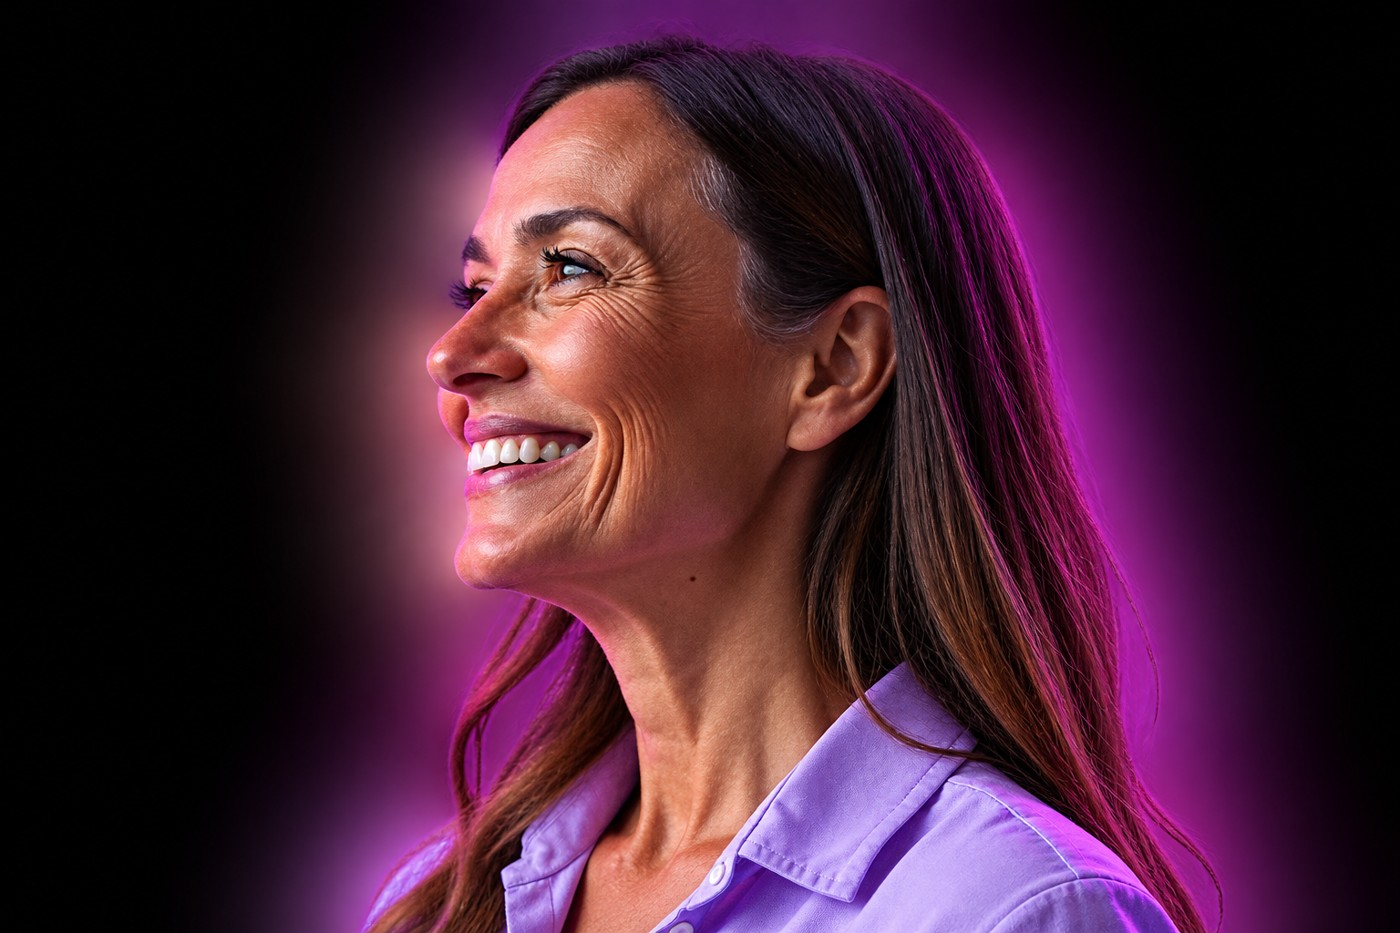
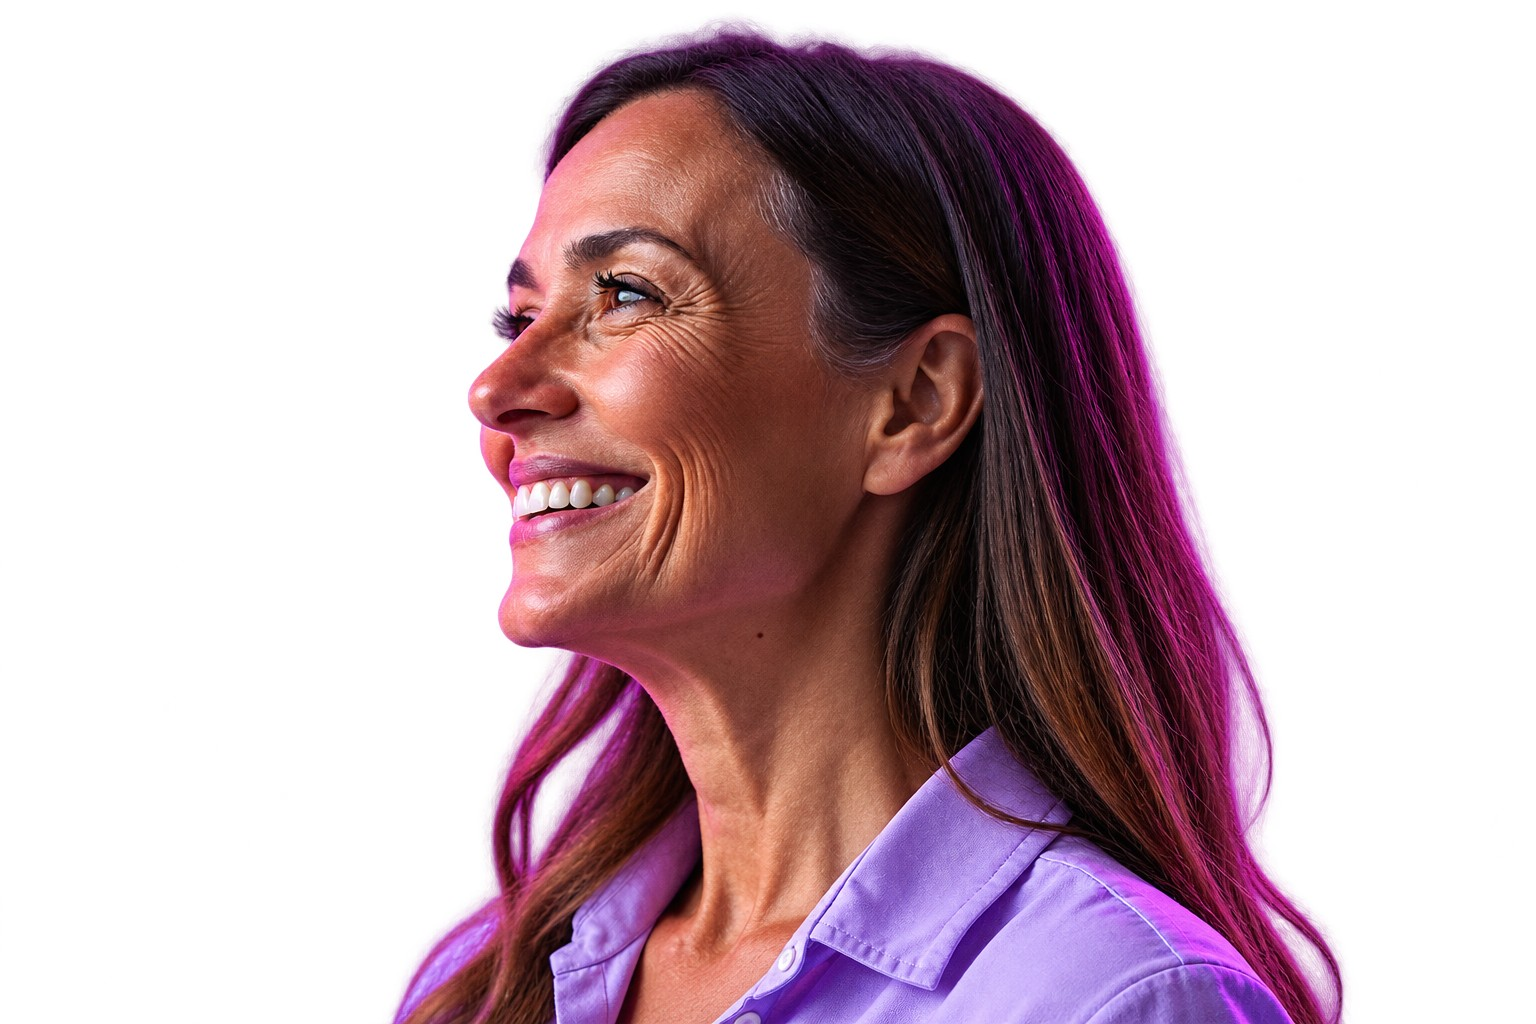
Transforma: nova capa inicial e final em camadas, com o personagem entre Trans e Forma

diff --git a/Transforma Educacao PB 2026.dc.html b/Transforma Educacao PB 2026.dc.html
@@ -15,9 +15,12 @@
 </helmet>
 <x-import component-from-global-scope="deck-stage" from="./deck-stage.js" width="1920" height="1080" hint-size="100%,100%">
 
-<section data-label="Capa" data-screen-label="01 Capa" data-duration="9000" style="background:#6809C6;overflow:hidden;font-family:'Archivo',sans-serif">
-  <img data-anim="zoom" src="assets/capa-3200.png" alt="Transforma Educação PB 2026" style="position:absolute;inset:0;width:100%;height:100%;object-fit:cover"></img>
-  <img data-anim="up" data-delay="900" src="assets/logos-branco-crop.png" alt="GEFDP · Secretaria de Estado da Educação · Governo da Paraíba" style="position:absolute;left:50%;top:712px;width:860px;margin-left:-430px"></img>
+<section data-label="Capa" data-screen-label="01 Capa" data-duration="9000" style="background:#ffffff;overflow:hidden;font-family:'Archivo',sans-serif;color:#2E0950">
+  <div data-anim="fade" data-delay="0" style="position:absolute;left:760px;top:-40px;width:1160px;height:1160px;border-radius:50%;background:radial-gradient(circle,#E9CFFF 0%,#F6ECFF 42%,rgba(255,255,255,0) 70%)"></div>
+  <img data-anim="up" data-delay="150" src="assets/capa-final/trans.png" alt="Trans" style="position:absolute;left:96px;top:440px;width:1060px;z-index:1"></img>
+  <img data-anim="zoom" data-delay="0" src="assets/capa-final/personagem.png" alt="Professor sorrindo" style="position:absolute;left:680px;top:110px;width:1410px;z-index:2;transform-origin:50% 100%"></img>
+  <img data-anim="up" data-delay="500" src="assets/capa-final/forma.png" alt="Forma" style="position:absolute;left:96px;top:768px;width:1280px;z-index:3;filter:drop-shadow(0 0 2px #fff) drop-shadow(0 10px 22px rgba(46,9,80,.28))"></img>
+  <div data-anim="fade" data-delay="800" style="position:absolute;left:0;right:0;bottom:0;height:120px;background:#fff;z-index:4;display:flex;align-items:center;justify-content:space-between;padding:0 190px 0 96px;box-sizing:border-box"><div><div style="display:flex;align-items:center;gap:9px"><span style="width:34px;height:34px;border:2px solid #6809C6;border-radius:999px;box-sizing:border-box"></span><span style="width:44px;height:34px;border:2px solid #6809C6;border-radius:999px;box-sizing:border-box"></span><span style="width:92px;height:34px;border:2px solid #6809C6;border-radius:999px;box-sizing:border-box"></span><span style="width:172px;height:34px;border:2px solid #6809C6;border-radius:999px;box-sizing:border-box"></span><span style="height:34px;padding:0 26px;border:2px solid #6809C6;border-radius:999px;box-sizing:border-box;display:flex;align-items:center;font-size:18px;letter-spacing:.34em;white-space:nowrap;color:#6809C6">EDUCAÇÃO PB</span></div><div style="margin-top:10px;display:flex;align-items:baseline;gap:18px;color:#6809C6;white-space:nowrap"><span style="font-size:21px;letter-spacing:.34em">FORMAÇÃO CONTINUADA BNCC</span><b style="font-size:29px;font-weight:900;font-stretch:125%;letter-spacing:.08em">2026</b></div></div><img src="assets/logos-cor-crop.png" alt="GEFDP · Secretaria de Estado da Educação · Governo da Paraíba" style="width:640px"></img></div>
 </section>
 
 <section data-label="O Programa" data-screen-label="02 O Programa" data-duration="13000" style="background:#ffffff;overflow:hidden;font-family:'Archivo',sans-serif;color:#2E0950">
@@ -106,6 +109,16 @@
   <div data-stage="6" data-dark="0" data-tr="desliza" style="position:absolute;inset:0;overflow:hidden;background:#fff;color:#2E0950;opacity:0"><div style="position:absolute;left:100px;right:100px;top:104px;display:flex;align-items:center;justify-content:space-between;gap:40px;z-index:3"><h1 data-sa="100" style="margin:0;font-size:68px;line-height:1;font-weight:800;font-stretch:118%;letter-spacing:-.025em;white-space:nowrap">Painel de <span style="color:#6809C6">indicadores</span></h1><div data-sa="0" style="align-self:flex-start;border:2px solid #6809C6;border-radius:999px;padding:12px 30px;font-size:24px;letter-spacing:.32em;text-transform:uppercase;white-space:nowrap;color:#6809C6">Avaliação</div></div>
 <div style="position:absolute;left:100px;right:100px;top:210px;bottom:74px;display:flex;gap:28px;z-index:2"><div data-ipanel="1" data-sa="200" style="flex:1;min-width:0;border-radius:36px;background:#6809C6;color:#fff;padding:44px 46px 30px;display:flex;flex-direction:column;box-shadow:0 30px 70px rgba(46,9,80,.28)"><div style="flex:1;min-height:0;display:flex;flex-direction:column;align-items:center;justify-content:center;text-align:center"><span style="width:190px;height:190px;border-radius:50%;background:#fff;display:flex;align-items:center;justify-content:center"><svg width="118" height="118" viewBox="0 0 24 24" fill="none" stroke="#6809C6" stroke-width="1.8" stroke-linecap="round" stroke-linejoin="round"><path d="M22 10L12 5 2 10l10 5 10-5z"></path><path d="M6 12v5c3 2 9 2 12 0v-5"></path></svg></span><div style="margin-top:28px;font-size:170px;line-height:.9;font-weight:900;font-stretch:86%;letter-spacing:-.03em;white-space:nowrap">91,8<span style="color:#E9A6FF">%</span></div><div style="margin-top:22px;font-size:42px;line-height:1.08;font-weight:800;font-stretch:108%">Indicadores pedagógicos</div><div style="margin-top:8px;font-size:24px;color:#E9D7FF">Conteúdo e prática docente</div></div><div data-iticker="1" style="flex:none;height:64px;margin-top:22px;padding:0 24px;border-radius:18px;background:rgba(255,255,255,.1);display:flex;align-items:center;gap:14px;font-size:25px;overflow:hidden"></div><div style="display:none"><span data-iitem="Relevância para a prática" data-v="99,1"><svg width="30" height="30" viewBox="0 0 24 24" fill="none" stroke="#E9D7FF" stroke-width="2" stroke-linecap="round" stroke-linejoin="round"><circle cx="12" cy="12" r="9"></circle><circle cx="12" cy="12" r="5"></circle><circle cx="12" cy="12" r="1"></circle></svg></span><span data-iitem="Clareza dos temas" data-v="89,9"><svg width="30" height="30" viewBox="0 0 24 24" fill="none" stroke="#E9D7FF" stroke-width="2" stroke-linecap="round" stroke-linejoin="round"><path d="M14 3H7a2 2 0 0 0-2 2v14a2 2 0 0 0 2 2h10a2 2 0 0 0 2-2V8z"></path><path d="M14 3v5h5M9 13h6M9 17h6"></path></svg></span><span data-iitem="Ampliou conhecimento" data-v="93,4"><svg width="30" height="30" viewBox="0 0 24 24" fill="none" stroke="#E9D7FF" stroke-width="2" stroke-linecap="round" stroke-linejoin="round"><path d="M22 10L12 5 2 10l10 5 10-5z"></path><path d="M6 12v5c3 2 9 2 12 0v-5"></path></svg></span><span data-iitem="Alinhado à sala de aula" data-v="83,7"><svg width="30" height="30" viewBox="0 0 24 24" fill="none" stroke="#E9D7FF" stroke-width="2" stroke-linecap="round" stroke-linejoin="round"><circle cx="12" cy="12" r="9"></circle><path d="M15.5 8.5l-2 5-5 2 2-5z"></path></svg></span><span data-iitem="Aprendizagem ativa" data-v="92,9"><svg width="30" height="30" viewBox="0 0 24 24" fill="none" stroke="#E9D7FF" stroke-width="2" stroke-linecap="round" stroke-linejoin="round"><path d="M13 2L4 14h7l-1 8 9-12h-7z"></path></svg></span></div></div><div data-ipanel="1" data-sa="350" style="flex:1;min-width:0;border-radius:36px;background:#2E0950;color:#fff;padding:44px 46px 30px;display:flex;flex-direction:column;box-shadow:0 30px 70px rgba(46,9,80,.28)"><div style="flex:1;min-height:0;display:flex;flex-direction:column;align-items:center;justify-content:center;text-align:center"><span style="width:190px;height:190px;border-radius:50%;background:#fff;display:flex;align-items:center;justify-content:center"><svg width="118" height="118" viewBox="0 0 24 24" fill="none" stroke="#6809C6" stroke-width="1.8" stroke-linecap="round" stroke-linejoin="round"><path d="M12 7c-2-2-5-2.5-9-2.5v14c4 0 7 .5 9 2.5 2-2 5-2.5 9-2.5v-14c-4 0-7 .5-9 2.5z"></path><path d="M12 7v14"></path></svg></span><div style="margin-top:28px;font-size:170px;line-height:.9;font-weight:900;font-stretch:86%;letter-spacing:-.03em;white-space:nowrap">93,8<span style="color:#E9A6FF">%</span></div><div style="margin-top:22px;font-size:42px;line-height:1.08;font-weight:800;font-stretch:108%">Recursos e metodologia</div><div style="margin-top:8px;font-size:24px;color:#E9D7FF">Materiais, atividades e orientações</div></div><div data-iticker="1" style="flex:none;height:64px;margin-top:22px;padding:0 24px;border-radius:18px;background:rgba(255,255,255,.1);display:flex;align-items:center;gap:14px;font-size:25px;overflow:hidden"></div><div style="display:none"><span data-iitem="Videoaulas" data-v="92,8"><svg width="30" height="30" viewBox="0 0 24 24" fill="none" stroke="#E9D7FF" stroke-width="2" stroke-linecap="round" stroke-linejoin="round"><circle cx="12" cy="12" r="9"></circle><path d="M10 8.5l5.5 3.5-5.5 3.5z"></path></svg></span><span data-iitem="Materiais escritos" data-v="94,4"><svg width="30" height="30" viewBox="0 0 24 24" fill="none" stroke="#E9D7FF" stroke-width="2" stroke-linecap="round" stroke-linejoin="round"><path d="M12 7c-2-2-5-2.5-9-2.5v14c4 0 7 .5 9 2.5 2-2 5-2.5 9-2.5v-14c-4 0-7 .5-9 2.5z"></path><path d="M12 7v14"></path></svg></span><span data-iitem="Recursos interativos" data-v="91,5"><svg width="30" height="30" viewBox="0 0 24 24" fill="none" stroke="#E9D7FF" stroke-width="2" stroke-linecap="round" stroke-linejoin="round"><circle cx="18" cy="5" r="3"></circle><circle cx="6" cy="12" r="3"></circle><circle cx="18" cy="19" r="3"></circle><path d="M8.6 10.5l6.8-4M8.6 13.5l6.8 4"></path></svg></span><span data-iitem="Atividades propostas" data-v="95,2"><svg width="30" height="30" viewBox="0 0 24 24" fill="none" stroke="#E9D7FF" stroke-width="2" stroke-linecap="round" stroke-linejoin="round"><rect x="5" y="4" width="14" height="17" rx="2"></rect><path d="M9 2.5h6V6H9zM9 13l2 2 4-4"></path></svg></span><span data-iitem="Clareza das orientações" data-v="95,0"><svg width="30" height="30" viewBox="0 0 24 24" fill="none" stroke="#E9D7FF" stroke-width="2" stroke-linecap="round" stroke-linejoin="round"><path d="M12 3v18M12 5h6l3 3-3 3h-6M12 11H6l-3 3 3 3h6"></path></svg></span></div></div></div></div>
   <div style="position:absolute;left:140px;right:140px;top:34px;display:flex;gap:28px;z-index:6;color:#fff"><div data-sgrupo="0-2" style="flex:3;display:flex;flex-direction:column;gap:10px;transition:opacity .4s,color .5s"><span style="font-size:19px;font-weight:700;letter-spacing:.24em;text-transform:uppercase">Alcance</span><div style="display:flex;gap:8px"><div style="flex:1;height:6px;border-radius:6px;overflow:hidden;transition:background .5s;background:rgba(255,255,255,.25)"><div data-sbar="0" style="height:100%;width:100%;background:#fff;transform-origin:0 50%;transform:scaleX(1);transition:transform .45s cubic-bezier(.22,1,.36,1),background .5s"></div></div><div style="flex:1;height:6px;border-radius:6px;overflow:hidden;transition:background .5s;background:rgba(255,255,255,.25)"><div data-sbar="1" style="height:100%;width:100%;background:#fff;transform-origin:0 50%;transform:scaleX(0);transition:transform .45s cubic-bezier(.22,1,.36,1),background .5s"></div></div><div style="flex:1;height:6px;border-radius:6px;overflow:hidden;transition:background .5s;background:rgba(255,255,255,.25)"><div data-sbar="2" style="height:100%;width:100%;background:#fff;transform-origin:0 50%;transform:scaleX(0);transition:transform .45s cubic-bezier(.22,1,.36,1),background .5s"></div></div></div></div><div data-sgrupo="3-4" style="flex:2;display:flex;flex-direction:column;gap:10px;transition:opacity .4s,color .5s"><span style="font-size:19px;font-weight:700;letter-spacing:.24em;text-transform:uppercase">Progresso</span><div style="display:flex;gap:8px"><div style="flex:1;height:6px;border-radius:6px;overflow:hidden;transition:background .5s;background:rgba(255,255,255,.25)"><div data-sbar="3" style="height:100%;width:100%;background:#fff;transform-origin:0 50%;transform:scaleX(0);transition:transform .45s cubic-bezier(.22,1,.36,1),background .5s"></div></div><div style="flex:1;height:6px;border-radius:6px;overflow:hidden;transition:background .5s;background:rgba(255,255,255,.25)"><div data-sbar="4" style="height:100%;width:100%;background:#fff;transform-origin:0 50%;transform:scaleX(0);transition:transform .45s cubic-bezier(.22,1,.36,1),background .5s"></div></div></div></div><div data-sgrupo="5-6" style="flex:2;display:flex;flex-direction:column;gap:10px;transition:opacity .4s,color .5s"><span style="font-size:19px;font-weight:700;letter-spacing:.24em;text-transform:uppercase">Avaliação</span><div style="display:flex;gap:8px"><div style="flex:1;height:6px;border-radius:6px;overflow:hidden;transition:background .5s;background:rgba(255,255,255,.25)"><div data-sbar="5" style="height:100%;width:100%;background:#fff;transform-origin:0 50%;transform:scaleX(0);transition:transform .45s cubic-bezier(.22,1,.36,1),background .5s"></div></div><div style="flex:1;height:6px;border-radius:6px;overflow:hidden;transition:background .5s;background:rgba(255,255,255,.25)"><div data-sbar="6" style="height:100%;width:100%;background:#fff;transform-origin:0 50%;transform:scaleX(0);transition:transform .45s cubic-bezier(.22,1,.36,1),background .5s"></div></div></div></div></div>
+  <div data-anim="wipe2" style="position:absolute;inset:0;background:#E9A6FF;transform:translateY(-101%);pointer-events:none;z-index:9"></div>
+  <div data-anim="wipe" style="position:absolute;inset:0;background:#6809C6;transform:translateY(-101%);pointer-events:none;z-index:10"></div>
+</section>
+
+<section data-label="Encerramento" data-screen-label="07 Encerramento" data-duration="9000" style="background:#ffffff;overflow:hidden;font-family:'Archivo',sans-serif;color:#2E0950">
+  <div data-anim="fade" data-delay="0" style="position:absolute;left:760px;top:-40px;width:1160px;height:1160px;border-radius:50%;background:radial-gradient(circle,#E9CFFF 0%,#F6ECFF 42%,rgba(255,255,255,0) 70%)"></div>
+  <img data-anim="up" data-delay="150" src="assets/capa-final/trans.png" alt="Trans" style="position:absolute;left:96px;top:440px;width:1060px;z-index:1"></img>
+  <img data-anim="zoom" data-delay="0" src="assets/capa-final/personagem.png" alt="Professor sorrindo" style="position:absolute;left:680px;top:110px;width:1410px;z-index:2;transform-origin:50% 100%"></img>
+  <img data-anim="up" data-delay="500" src="assets/capa-final/forma.png" alt="Forma" style="position:absolute;left:96px;top:768px;width:1280px;z-index:3;filter:drop-shadow(0 0 2px #fff) drop-shadow(0 10px 22px rgba(46,9,80,.28))"></img>
+  <div data-anim="fade" data-delay="800" style="position:absolute;left:0;right:0;bottom:0;height:120px;background:#fff;z-index:4;display:flex;align-items:center;justify-content:space-between;padding:0 190px 0 96px;box-sizing:border-box"><div><div style="display:flex;align-items:center;gap:9px"><span style="width:34px;height:34px;border:2px solid #6809C6;border-radius:999px;box-sizing:border-box"></span><span style="width:44px;height:34px;border:2px solid #6809C6;border-radius:999px;box-sizing:border-box"></span><span style="width:92px;height:34px;border:2px solid #6809C6;border-radius:999px;box-sizing:border-box"></span><span style="width:172px;height:34px;border:2px solid #6809C6;border-radius:999px;box-sizing:border-box"></span><span style="height:34px;padding:0 26px;border:2px solid #6809C6;border-radius:999px;box-sizing:border-box;display:flex;align-items:center;font-size:18px;letter-spacing:.34em;white-space:nowrap;color:#6809C6">EDUCAÇÃO PB</span></div><div style="margin-top:10px;display:flex;align-items:baseline;gap:18px;color:#6809C6;white-space:nowrap"><span style="font-size:21px;letter-spacing:.34em">FORMAÇÃO CONTINUADA BNCC</span><b style="font-size:29px;font-weight:900;font-stretch:125%;letter-spacing:.08em">2026</b></div></div><img src="assets/logos-cor-crop.png" alt="GEFDP · Secretaria de Estado da Educação · Governo da Paraíba" style="width:640px"></img></div>
   <div data-anim="wipe2" style="position:absolute;inset:0;background:#E9A6FF;transform:translateY(-101%);pointer-events:none;z-index:9"></div>
   <div data-anim="wipe" style="position:absolute;inset:0;background:#6809C6;transform:translateY(-101%);pointer-events:none;z-index:10"></div>
 </section>

diff --git a/index.html b/index.html
@@ -6,7 +6,7 @@
 <title>Apresentações GEFDP</title>
 <script>
   // Atalhos diretos (TV / favoritos): index.html#transforma, #jornada, #ieg, #antes ou #nota abre a apresentação sem passar pelo menu.
-  var DECK = 'Transforma%20Educacao%20PB%202026.dc.html?v=24', IEG = 'IEG%202026.dc.html?v=31', ANTES = 'Antes%20que%20Aconteca.dc.html?v=10', NOTA = 'Nota%201000.dc.html?v=5';
+  var DECK = 'Transforma%20Educacao%20PB%202026.dc.html?v=25', IEG = 'IEG%202026.dc.html?v=31', ANTES = 'Antes%20que%20Aconteca.dc.html?v=10', NOTA = 'Nota%201000.dc.html?v=5';
   function modoSalvo() { try { return localStorage.getItem('apresentacao-modo') || 'loop'; } catch (e) { return 'loop'; } }
   function destino(prog) { if (prog === 'antes') return ANTES + '&modo=' + modoSalvo(); if (prog === 'nota') return NOTA + '&modo=' + modoSalvo(); return prog === 'ieg' ? IEG + '&modo=' + modoSalvo() : DECK + '&modo=' + modoSalvo() + (prog === 'jornada' ? '#jornada' : ''); }
   function abrir(prog) { location.href = destino(prog); }
